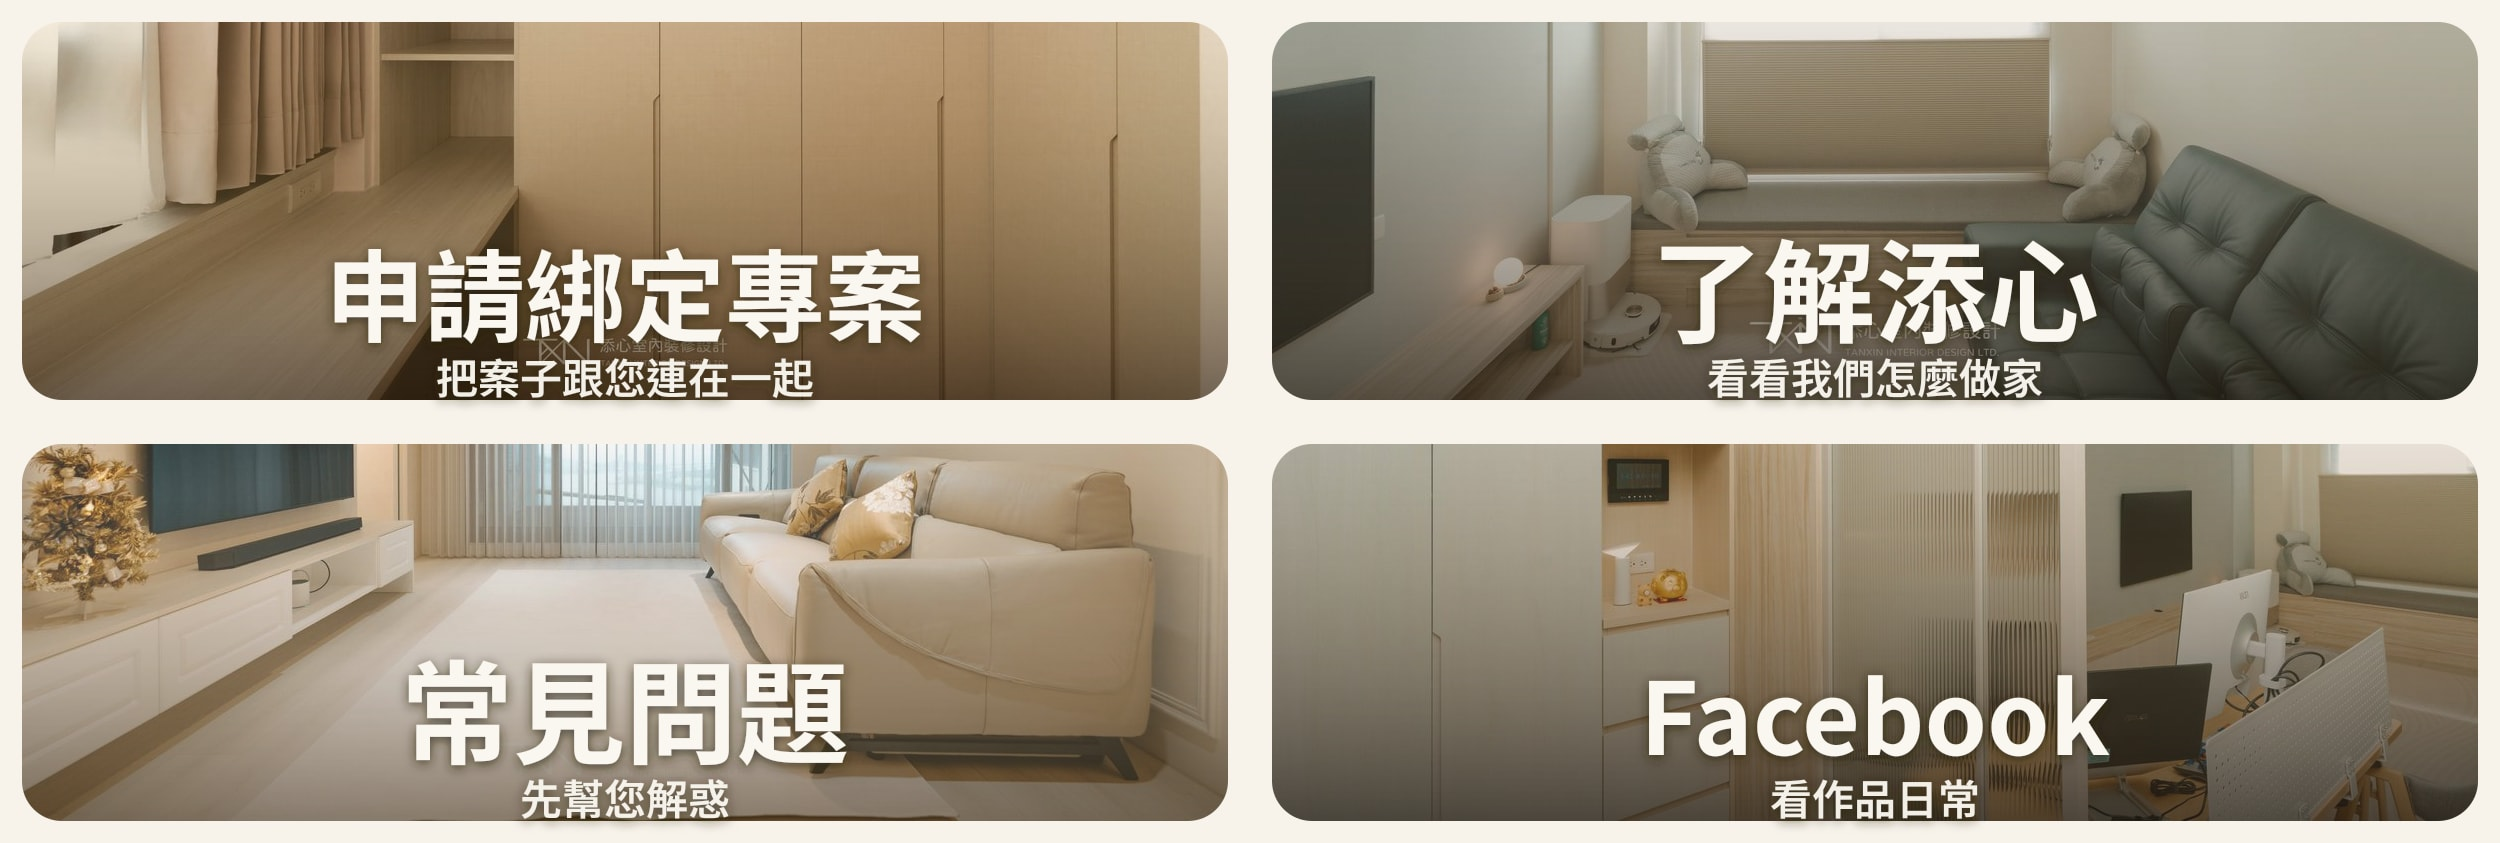
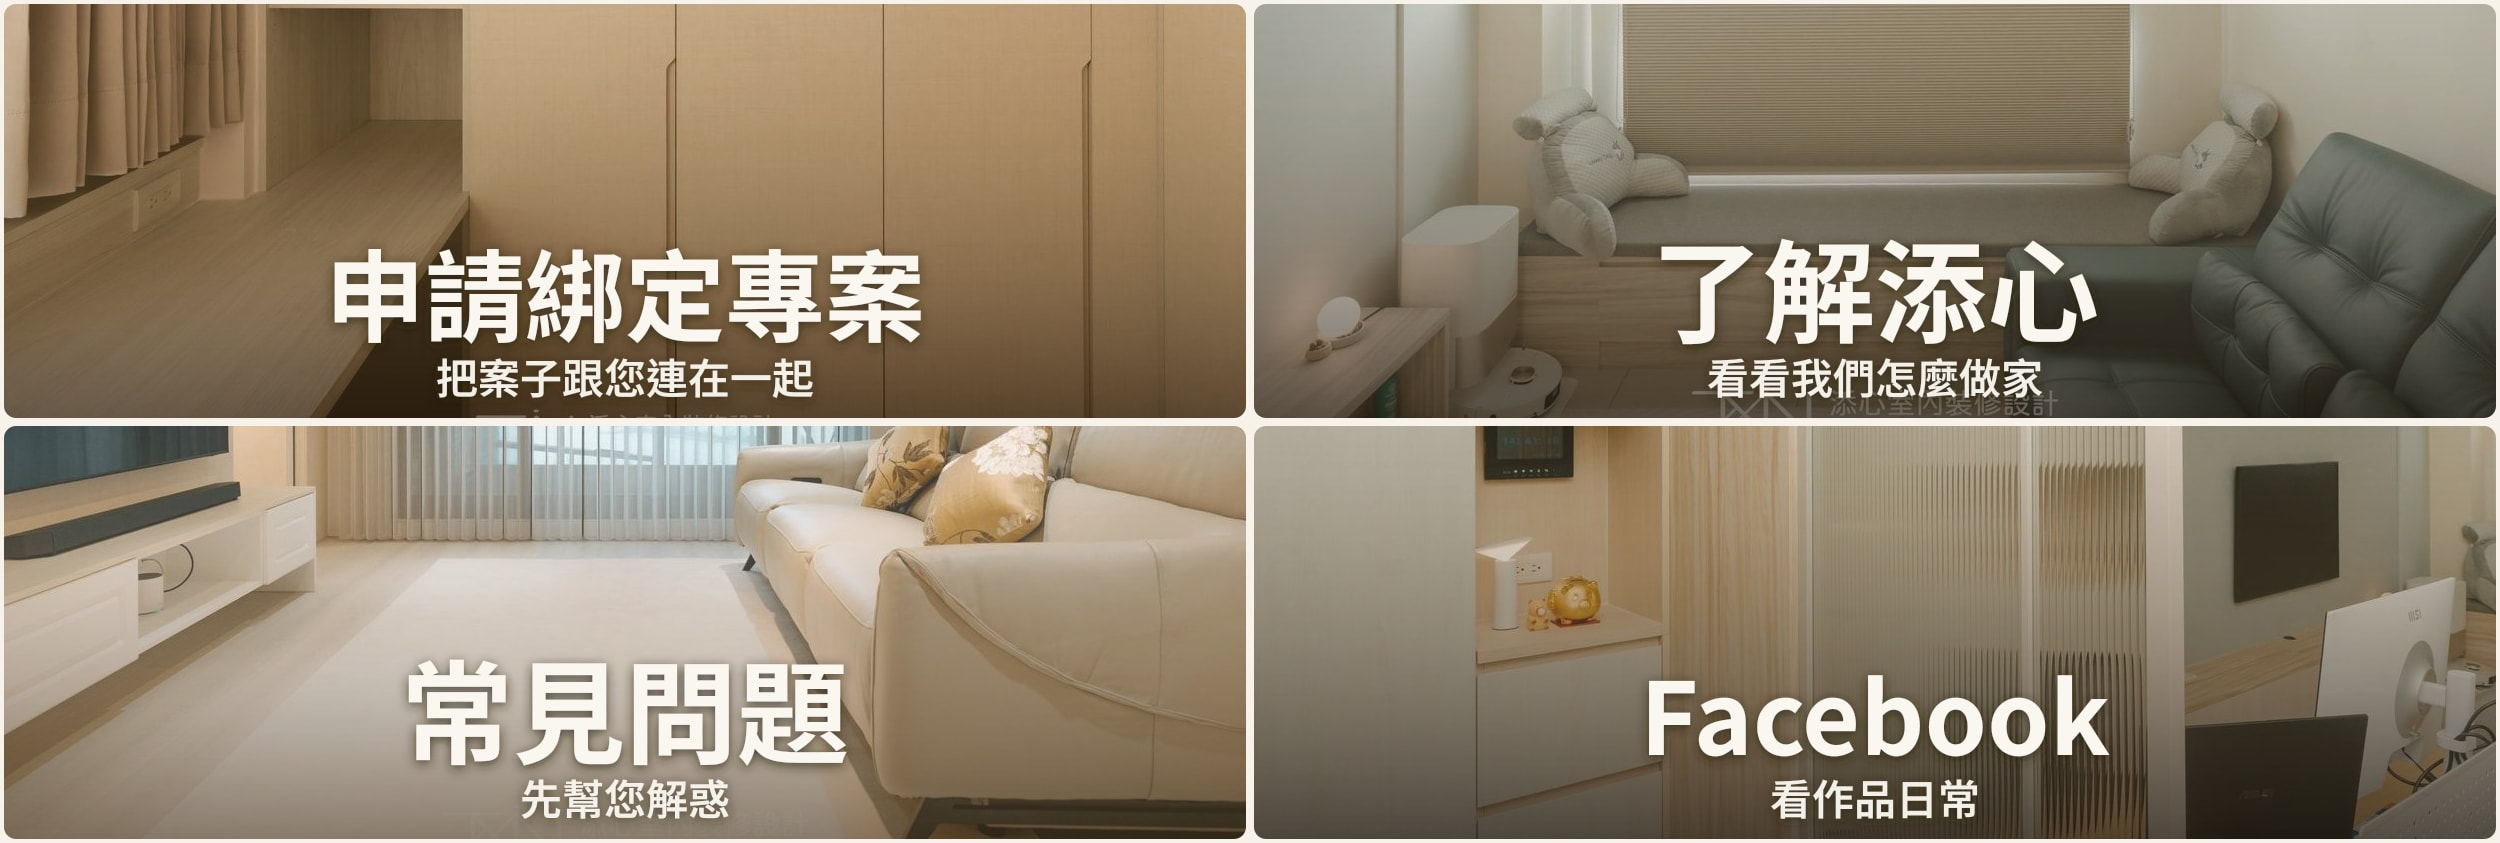
feat(deploy): 客戶選單半幅照片拉近

diff --git a/modules/info/customer-richmenu-preview.html b/modules/info/customer-richmenu-preview.html
@@ -92,8 +92,8 @@
       background: #f4efe6;
       aspect-ratio: 2500 / 843;
       display: grid;
-      gap: 8px;
-      padding: 8px;
+      gap: 3px;
+      padding: 3px;
     }
     .richmenu.guest { grid-template-columns: 1fr 1fr; grid-template-rows: 1fr 1fr; }
     .richmenu.member { grid-template-columns: 1fr 1fr 1fr; grid-template-rows: 1fr 1fr; }
@@ -105,11 +105,11 @@
       justify-content: flex-end;
       text-align: center;
       padding: 10px 8px 36px;
-      border-radius: 14px;
+      border-radius: 8px;
       color: #faf7f0;
       min-height: 0;
       overflow: hidden;
-      background-size: cover;
+      background-size: 142%;
       background-position: center;
       box-shadow: 0 6px 16px rgba(42, 60, 53, 0.12);
     }

diff --git a/LOG/2026-08-13_LOG_客戶RichMenu第1波.md b/LOG/2026-08-13_LOG_客戶RichMenu第1波.md
@@ -31,3 +31,4 @@
 - 圖稿已可開：https://info.tanxin.space/modules/info/asset/richmenu/customer_guest_richmenu_v1.jpg
 - 黃俊豪 LINE 已掛未綁四格（2026-08-13 16:37）
 - 同日稍後：標題加大後換圖（仍同一套選單，不重建）
+- 晚間：總監要照片放大、維持半幅。縮小格距並拉近實景，重出 JPG 後重建選單再掛測試帳
